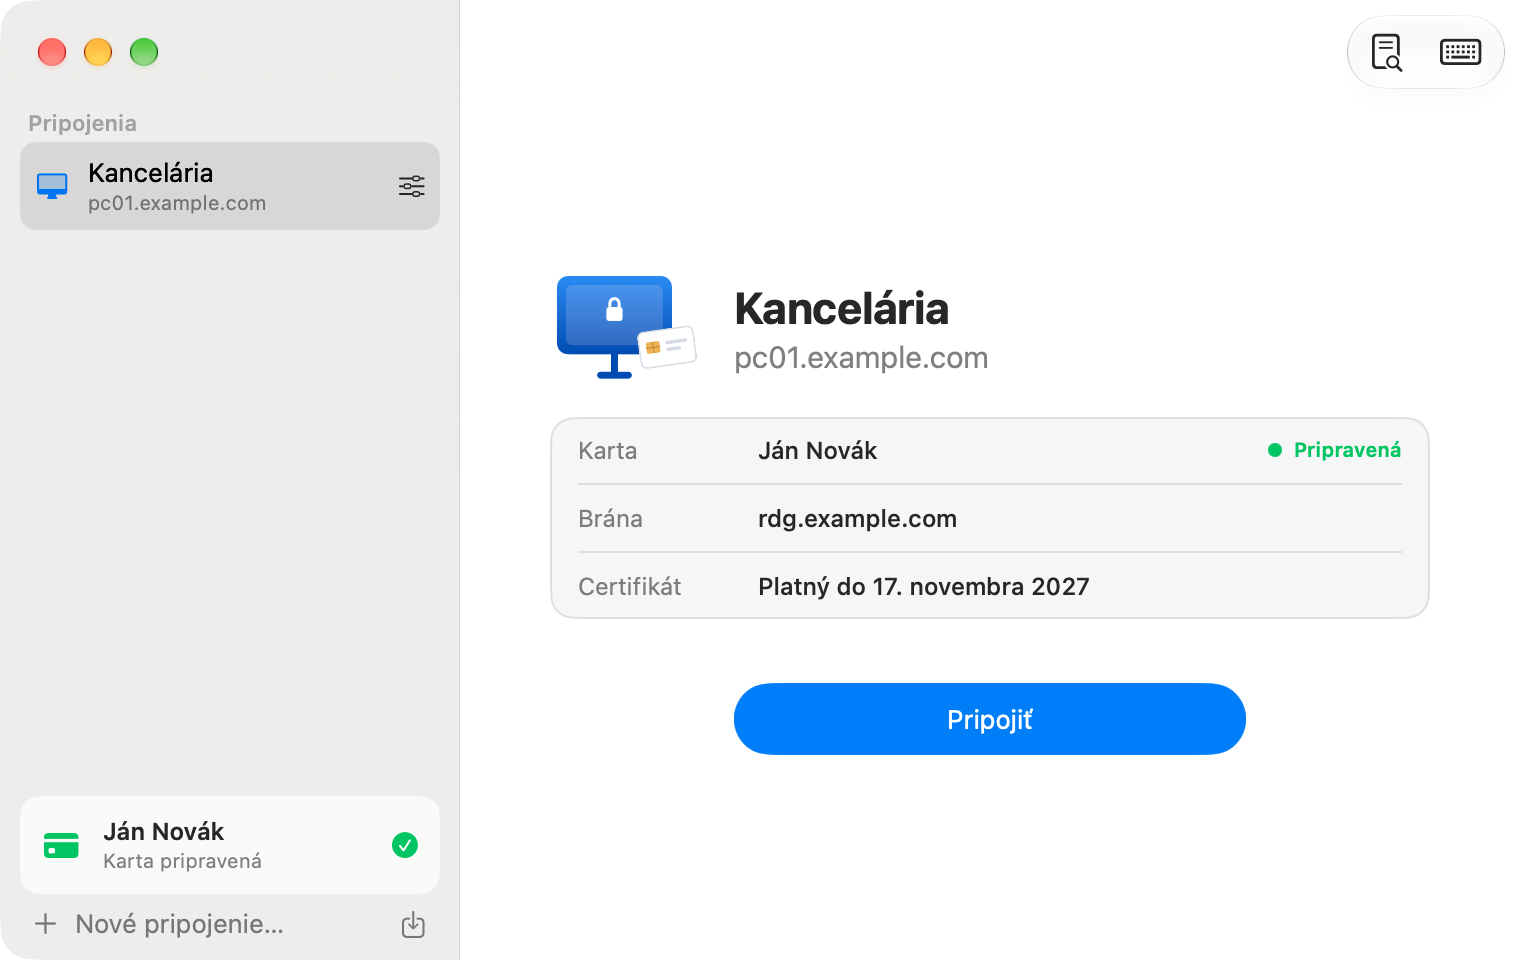
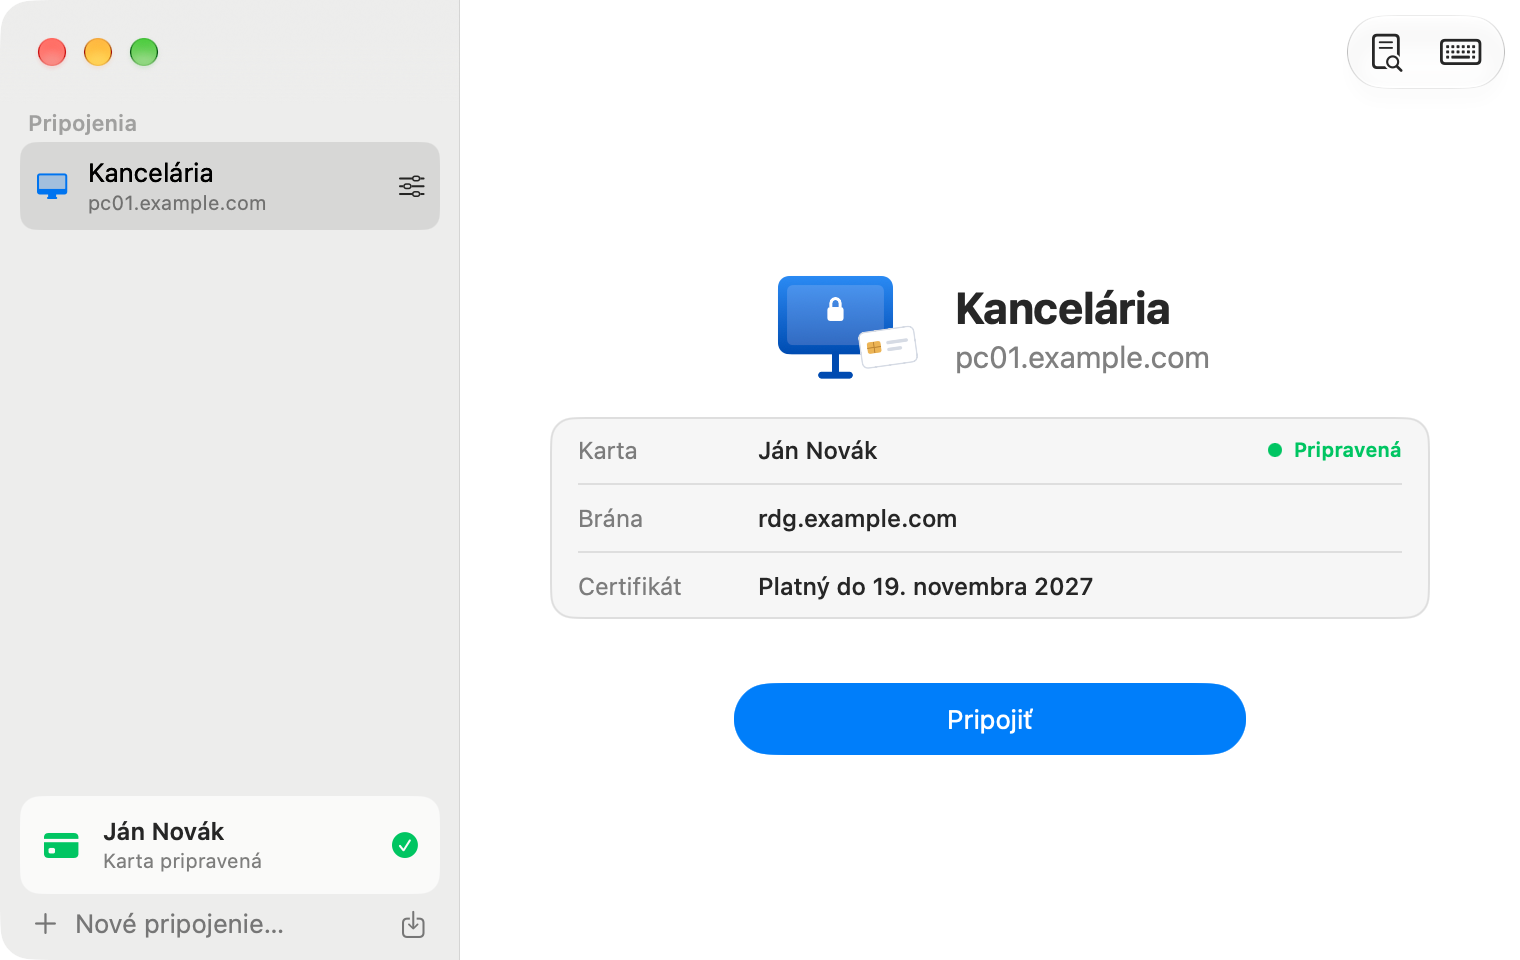
chore: release 0.6.1

Changed region(s): [[0.3401, 0.2812, 0.8039, 0.4062], [0.5875, 0.5938, 0.7112, 0.625]]

diff --git a/CHANGELOG.md b/CHANGELOG.md
@@ -5,6 +5,11 @@ verze se číslují podle [Semantic Versioning](https://semver.org/lang/cs/). Ak
 
 ## [Unreleased]
 
+## [0.6.1] - 2026-11-19
+
+Bezpečnostní aktualizace přibaleného FreeRDP a oprava, kvůli které se Windows ve vzdálené ploše
+občas po napsání písmene L uzamkl.
+
 ### Změněno
 - Hlavní okno: ikona s názvem a adresou počítače je vystředěná nad přehledem, srdíčko v nabídce
   podpory je větší a svisle vystředěné.
